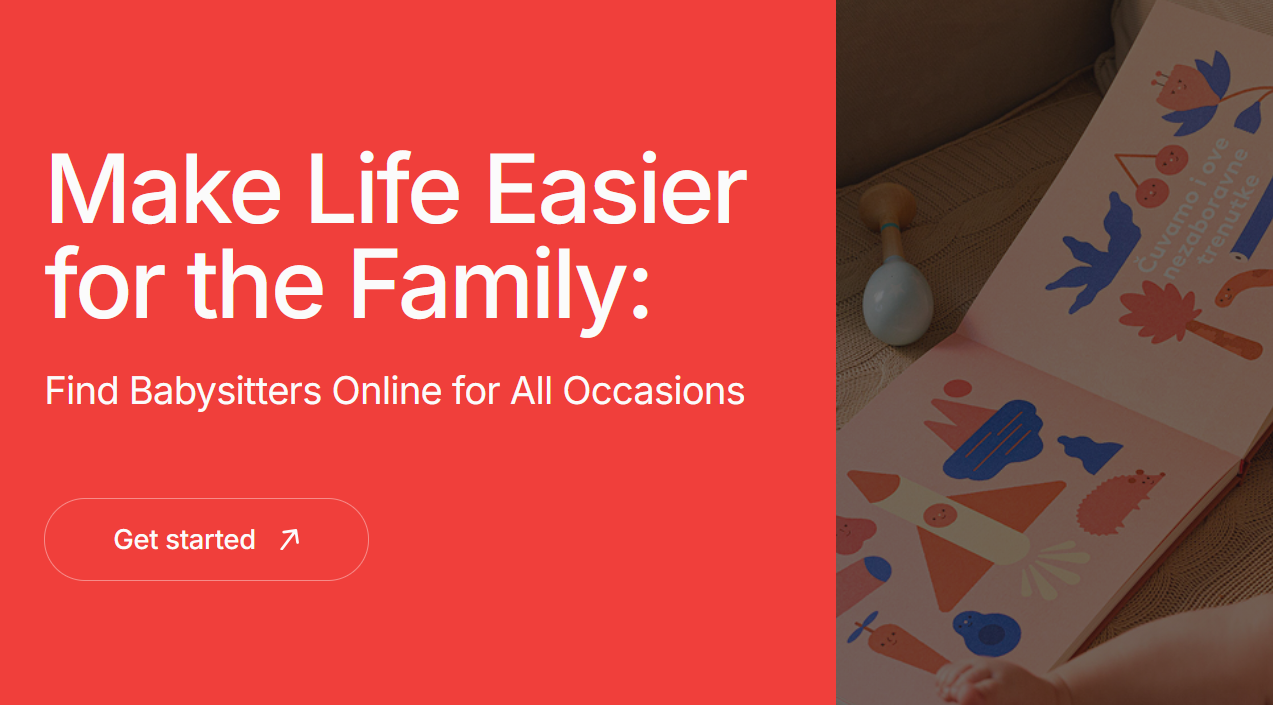
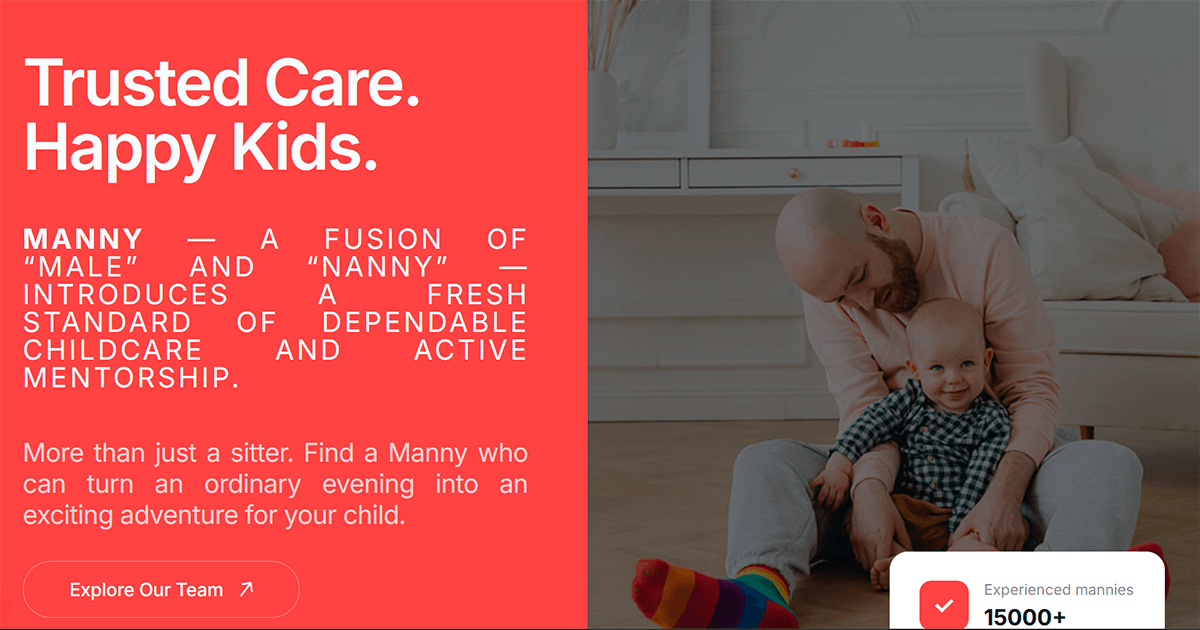
Changed metadata Layout

diff --git a/src/app/layout.tsx b/src/app/layout.tsx
@@ -19,33 +19,42 @@ export const viewport = {
 
 export const metadata: Metadata = {
   title: {
-    default: "Manny.Services | Find Your Perfect Manny",
-    template: "Manny.Services",
+    default: "Manny.Services | Professional Male Nannies & Childcare",
+    template: "%s | Manny.Services",
   },
   description:
-    "Reliable babysitting services. Find and hire experienced mannies for your children with ease. Safety and trust first.",
+    "Find and hire verified male nannies (mannies). Professional, active, and reliable childcare services tailored for your family. Book your perfect match today!",
   keywords: [
-    "nanny",
+    "male nanny",
     "manny",
     "babysitter",
-    "hire manny",
-    "child care",
-    "manny services",
+    "hire a manny",
+    "professional childcare",
+    "manny services online",
   ],
   openGraph: {
-    title: "Manny.Services | Trusted Child Care",
+    title: "Manny.Services | Reliable Care for Your Kids",
     description:
-      "Find qualified and verified babysitters online for all occasions.",
+      "Discover verified mannies who provide active mentorship and professional care. Safety and trust first.",
     url: "https://nannies-service.netlify.app/",
     siteName: "Manny.Services",
+    images: [
+      {
+        url: "https://nannies-service.netlify.app/og-image.png",
+        width: 1200,
+        height: 630,
+        alt: "Manny.Services - Professional Male Nannies",
+      },
+    ],
     locale: "en_US",
     type: "website",
   },
   twitter: {
     card: "summary_large_image",
-    title: "Manny.Services",
+    title: "Manny.Services | Hire a Professional Manny",
+    description:
+      "Find qualified and verified babysitters online. Active care and mentorship for your children.",
     images: ["https://nannies-service.netlify.app/og-image.png"],
-    description: "Find qualified and verified babysitters online.",
   },
   robots: {
     index: true,
